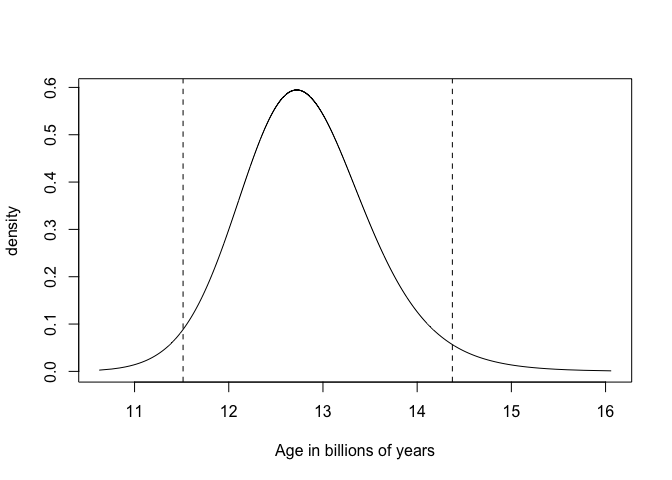
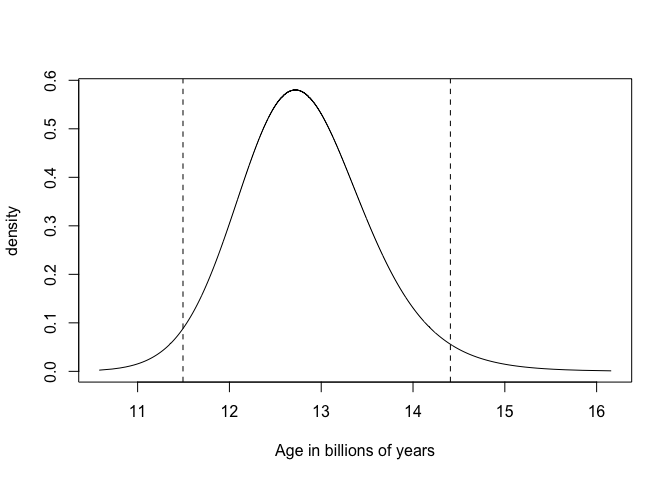
hubex

diff --git a/docs/examples/intro.md b/docs/examples/intro.md
@@ -1,7 +1,7 @@
 Simple example with INLA
 ================
 [Julian Faraway](https://julianfaraway.github.io/)
-21 September 2020
+11 February 2022
 
 See the [introduction](index.md) for general information. We need the
 following packages (which you must install first).
@@ -12,15 +12,15 @@ library(INLA)
 
     Loading required package: Matrix
 
-    Loading required package: sp
+    Loading required package: foreach
 
     Loading required package: parallel
 
-    Loading required package: foreach
+    Loading required package: sp
 
-    This is INLA_20.03.17 built 2020-09-21 11:41:39 UTC.
-    See www.r-inla.org/contact-us for how to get help.
-    To enable PARDISO sparse library; see inla.pardiso()
+    This is INLA_22.01.25 built 2022-01-25 17:43:11 UTC.
+     - See www.r-inla.org/contact-us for how to get help.
+     - To enable PARDISO sparse library; see inla.pardiso()
 
 ``` r
 library(brinla)
@@ -38,14 +38,12 @@ data:
 plot(y ~ x, xlab="Distance(Mpc)", ylab="Velocity(km/s)", data=hubble)
 ```
 
-![](figs/hub1-1.png)<!-- -->
+![](figs/hub1-1.svg)<!-- -->
 
-The velocity *y* is related to the distance *x* by \[
-y = \beta x
-\]
+The velocity *y* is related to the distance *x* by *y=βx*
 
-where \(\beta\) is *Hubble’s constant*. The age of universe is
-approximated by the inverse of Hubble’s constant.
+where β is *Hubble’s constant*. The age of universe is approximated by
+the inverse of Hubble’s constant.
 
 # Least squares
 
@@ -56,10 +54,8 @@ lmod <- lm(y~x-1, data=hubble)
 coef(lmod)
 ```
 
-``` 
-     x 
-76.581 
-```
+         x 
+    76.581 
 
 We have 60 seconds, 60 minutes, 24 hours and 365.25 days in a year and
 one megaparsec (Mpc) is 3.09e19 km. Here is a function to transform
@@ -71,10 +67,8 @@ hubtoage <- function(x) 3.09e19/(x*60^2*24*365.25*1e9)
 hubtoage(coef(lmod))
 ```
 
-``` 
-     x 
-12.786 
-```
+         x 
+    12.786 
 
 Our estimate is 12.79 billion years. We can form a 95% confidence
 interval for Hubble’s constant.
@@ -83,10 +77,8 @@ interval for Hubble’s constant.
 (bci <- confint(lmod))
 ```
 
-``` 
-   2.5 % 97.5 %
-x 68.379 84.783
-```
+       2.5 % 97.5 %
+    x 68.379 84.783
 
 We can transform this into a 95% confidence interval for the age of the
 universe in billions of years:
@@ -95,10 +87,8 @@ universe in billions of years:
 hubtoage(bci)
 ```
 
-``` 
-  2.5 % 97.5 %
-x 14.32 11.549
-```
+      2.5 % 97.5 %
+    x 14.32 11.549
 
 The upper and lower bound come out in the reverse order because of the
 inversion of Hubble’s constant.
@@ -112,10 +102,8 @@ imod <- inla(y ~ x -1, family="gaussian", data=hubble)
 imod$summary.fixed
 ```
 
-``` 
-   mean     sd 0.025quant 0.5quant 0.975quant   mode        kld
-x 75.43 3.9146     67.508   75.485     83.017 75.572 2.6405e-08
-```
+        mean     sd 0.025quant 0.5quant 0.975quant   mode        kld
+    x 75.375 3.9976     67.362   75.414     83.166 75.493 5.4991e-05
 
 The resulting posterior mean is different from the linear model estimate
 of beta. Since we are using a different method, we should not expect it
@@ -129,7 +117,7 @@ inla.set.control.fixed.default()[c('mean','prec')]
 
     $mean
     [1] 0
-    
+
     $prec
     [1] 0.001
 
@@ -157,13 +145,11 @@ imod <- inla(y ~ x -1, family="gaussian", control.fixed=list(prec=1e-9), data=hu
 (ibci <- imod$summary.fixed)
 ```
 
-``` 
-    mean     sd 0.025quant 0.5quant 0.975quant   mode        kld
-x 76.581 4.2478     68.122   76.581     85.034 76.581 6.4301e-06
-```
+        mean     sd 0.025quant 0.5quant 0.975quant   mode        kld
+    x 76.581 4.1854     68.284   76.581     84.868 76.581 5.4812e-05
 
 We get a posterior mean which is the same as the least squares estimate.
-The 95% credibility interval is \[68.1, 85\] which is comparable but
+The 95% credibility interval is \[68.3, 84.9\] which is comparable but
 also a bit different from the 95% confidence interval. Quite apart from
 the numerical differences, the two intervals are conceptually different.
 
@@ -177,7 +163,7 @@ plot(imod$marginals.fixed$x, type = "l", xlab = "beta", ylab = "density",
 abline(v = ibci[c(3, 5)], lty = 2)
 ```
 
-![](figs/hubpost-1.png)<!-- -->
+![](figs/hubpost-1.svg)<!-- -->
 
 We can convert to statements about the age of the universe in terms of
 billions of years:
@@ -186,10 +172,8 @@ billions of years:
 hubtoage(ibci[c(1,3,4,5,6)])
 ```
 
-``` 
-    mean 0.025quant 0.5quant 0.975quant   mode
-x 12.786     14.374   12.786     11.515 12.786
-```
+        mean 0.025quant 0.5quant 0.975quant   mode
+    x 12.786     14.339   12.786     11.537 12.786
 
 This can also be plotted:
 
@@ -199,6 +183,6 @@ plot(ageden, type = "l", xlab = "Age in billions of years", ylab = "density")
 abline(v = hubtoage(ibci[c(3, 5)]), lty = 2)
 ```
 
-![](figs/hubci-1.png)<!-- -->
+![](figs/hubci-1.svg)<!-- -->
 
-The 95% credible interval is \[11.51, 14.37\] billion years.
+The 95% credible interval is \[11.54, 14.34\] billion years.
